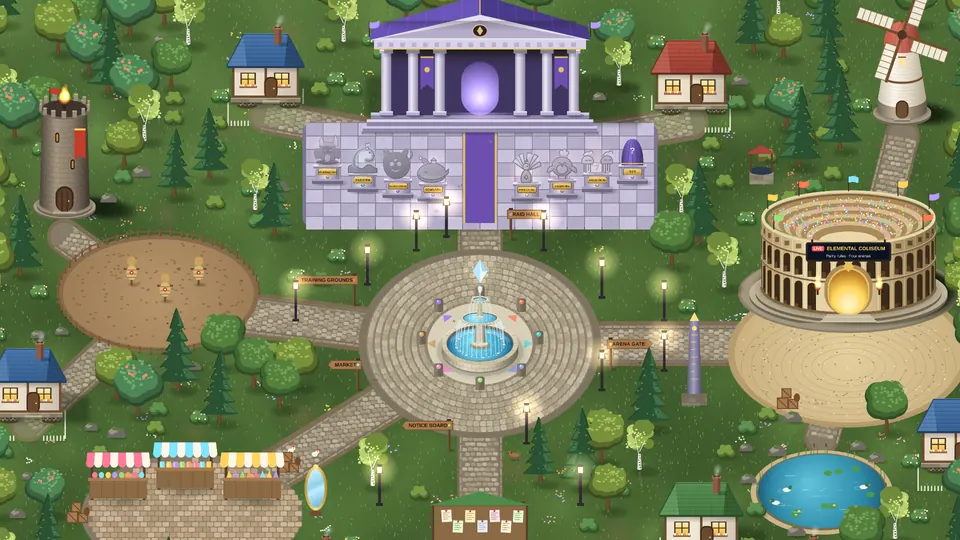
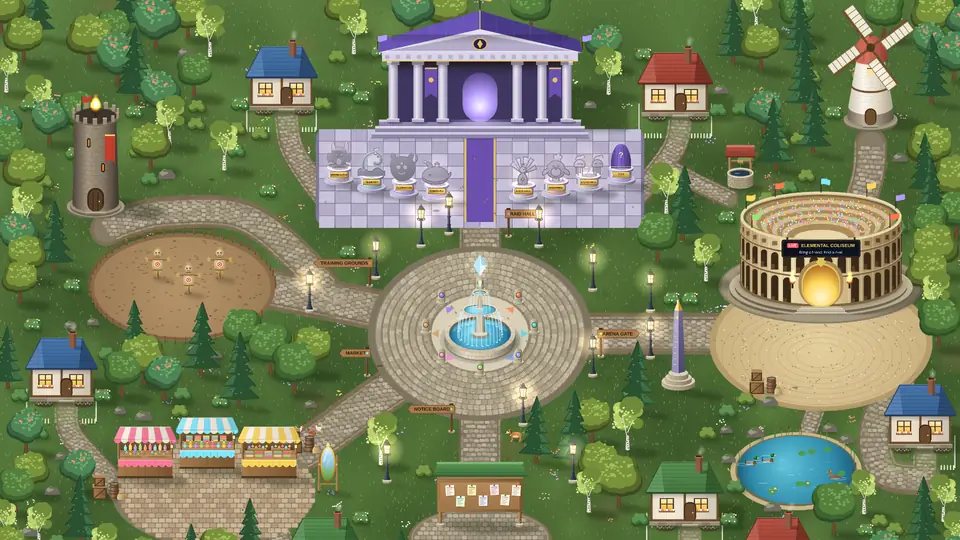
Cleanups: fresh town backdrop, drop the dead battle Leave button, define --body
The dimmed welcome/lobby backdrop is re-rendered from the current town
(curved roads, round bases, props). The hidden #battle-leave button and its
styles were never shown or wired. --body (DM Sans) is now a root token, so
the Wardrobe's var(--body) fonts resolve.

Claude-Session: https://claude.ai/code/session_01NG6FpBkZ47MK7ZMTg7z4Wq

diff --git a/apps/client/src/main.ts b/apps/client/src/main.ts
@@ -223,7 +223,7 @@ const escape = (s: string) =>
       ]!,
   );
 document.querySelector("#app")!.innerHTML =
-  `<header class="topbar"><a class="brand" href="#"><span class="brand-mark" aria-hidden="true"><svg viewBox="0 0 64 64"><defs><linearGradient id="element-crest" x2="0" y2="1"><stop stop-color="#fff1a3"/><stop offset="1" stop-color="#d9a340"/></linearGradient></defs><path fill="url(#element-crest)" fill-rule="evenodd" d="M32 2 42 21 62 32 43 43 32 62 21 43 2 32 21 21Zm0 14L16 32l16 16 16-16Z"/></svg></span> ELEMENT<span>ARENA</span></a><div class="top-links"><div id="account-nav" class="account-nav"></div><button type="button" class="quiet home-settings" id="home-settings" aria-label="Settings" title="Settings">${menuIcon("settings")}</button><details class="header-menu" id="header-menu"><summary><i class="menu-burger" aria-hidden="true">☰</i><i class="menu-gear" aria-hidden="true">${menuIcon("settings")}</i> <span>Menu</span></summary><div class="header-menu-panel"><button class="quiet" id="help">${menuIcon("help")}<span>How to play</span></button><button class="quiet" id="settings">${menuIcon("settings")}<span>Settings</span></button><button class="quiet" id="leaderboard">${menuIcon("leaderboard")}<span>Leaderboard</span></button><button class="quiet" id="install-app">${menuIcon("fullscreen")}<span>Want fullscreen?</span></button><button class="quiet" id="report-problem">${menuIcon("report")}<span>Report a problem</span></button><button class="quiet" id="menu-logout">${menuIcon("leave")}<span>Log out</span></button><span class="connection" id="connection">Connecting</span></div></details></div></header><main><section id="menu"></section><section id="battle" hidden>${stadiumCrowd()}<div id="practice-controls" class="practice-controls" hidden></div><div id="hud" class="hud"></div><div class="arena-stage"><div class="arena-frame"><div id="game"></div><div id="arena-overlay"></div><div id="spectate" class="spectate-banner" role="status" hidden></div><span class="map-label">ELEMENTAL COLISEUM <span>01 / CHAMPIONS COURT</span></span></div></div><div id="mobile-controls"></div><div id="abilities" class="ability-bar"></div><div class="battle-footer"><span id="control-hints"></span><span id="network">AUTHORITATIVE ONLINE MATCH</span><button class="quiet" id="battle-menu" title="Battle settings (Esc / controller Menu)">Settings</button><button class="quiet battle-leave" id="battle-leave" hidden>${iconLabel("leave", "Leave")}</button></div></section></main><footer><span>ELEMENT ARENA <b>•</b> REAL-TIME CREATURE DUELS</span><button class="quiet" id="credits">Credits</button><span>Eight creatures. One arena. Your move.</span></footer><div id="toast" role="status"></div><dialog id="dialog"></dialog>`;
+  `<header class="topbar"><a class="brand" href="#"><span class="brand-mark" aria-hidden="true"><svg viewBox="0 0 64 64"><defs><linearGradient id="element-crest" x2="0" y2="1"><stop stop-color="#fff1a3"/><stop offset="1" stop-color="#d9a340"/></linearGradient></defs><path fill="url(#element-crest)" fill-rule="evenodd" d="M32 2 42 21 62 32 43 43 32 62 21 43 2 32 21 21Zm0 14L16 32l16 16 16-16Z"/></svg></span> ELEMENT<span>ARENA</span></a><div class="top-links"><div id="account-nav" class="account-nav"></div><button type="button" class="quiet home-settings" id="home-settings" aria-label="Settings" title="Settings">${menuIcon("settings")}</button><details class="header-menu" id="header-menu"><summary><i class="menu-burger" aria-hidden="true">☰</i><i class="menu-gear" aria-hidden="true">${menuIcon("settings")}</i> <span>Menu</span></summary><div class="header-menu-panel"><button class="quiet" id="help">${menuIcon("help")}<span>How to play</span></button><button class="quiet" id="settings">${menuIcon("settings")}<span>Settings</span></button><button class="quiet" id="leaderboard">${menuIcon("leaderboard")}<span>Leaderboard</span></button><button class="quiet" id="install-app">${menuIcon("fullscreen")}<span>Want fullscreen?</span></button><button class="quiet" id="report-problem">${menuIcon("report")}<span>Report a problem</span></button><button class="quiet" id="menu-logout">${menuIcon("leave")}<span>Log out</span></button><span class="connection" id="connection">Connecting</span></div></details></div></header><main><section id="menu"></section><section id="battle" hidden>${stadiumCrowd()}<div id="practice-controls" class="practice-controls" hidden></div><div id="hud" class="hud"></div><div class="arena-stage"><div class="arena-frame"><div id="game"></div><div id="arena-overlay"></div><div id="spectate" class="spectate-banner" role="status" hidden></div><span class="map-label">ELEMENTAL COLISEUM <span>01 / CHAMPIONS COURT</span></span></div></div><div id="mobile-controls"></div><div id="abilities" class="ability-bar"></div><div class="battle-footer"><span id="control-hints"></span><span id="network">AUTHORITATIVE ONLINE MATCH</span><button class="quiet" id="battle-menu" title="Battle settings (Esc / controller Menu)">Settings</button></div></section></main><footer><span>ELEMENT ARENA <b>•</b> REAL-TIME CREATURE DUELS</span><button class="quiet" id="credits">Credits</button><span>Eight creatures. One arena. Your move.</span></footer><div id="toast" role="status"></div><dialog id="dialog"></dialog>`;
 // Measure wrapped HUDs for phone spacing and desktop boss-specific controls.
 let measuredRaidHud: HTMLElement | null = null;
 const battleHudSize = new ResizeObserver((entries) => {

diff --git a/apps/client/src/style.css b/apps/client/src/style.css
@@ -13459,6 +13459,7 @@ dialog.mission-instructions::backdrop {
   --panel-bottom: #0e1a31;
   --panel-line: #8baee52b;
   --display: "Barlow Condensed", Impact, sans-serif;
+  --body: "DM Sans", sans-serif;
   --scroll-track: #081427;
   --scroll-thumb: #b99858;
   --scroll-thumb-light: #e3c47e;
@@ -21138,15 +21139,9 @@ body.town-active .header-menu-panel #friends {
   stroke: #2a1a00;
   stroke-width: 2.4;
 }
-/* Solo test mode: no site menu; Settings and Leave sit side by side. */
+/* Solo test mode: no site menu. */
 body.practice-active .header-menu {
   display: none;
-}
-.battle-leave {
-  color: #ff8a8a;
-}
-.battle-leave:hover {
-  color: #ffb0b0;
 }
 
 /* ── Welcome screen ──

diff --git a/apps/client/src/wardrobe.css b/apps/client/src/wardrobe.css
@@ -343,8 +343,8 @@ dialog.wardrobe-dialog > .dialog-content {
   gap: 4px;
   box-sizing: border-box;
   white-space: nowrap;
-  /* Same size as the line above it (named directly: --body isn't set here). */
-  font-family: "DM Sans", sans-serif;
+  /* Same size as the line above it. */
+  font-family: var(--body);
   font-weight: 600;
   line-height: 1.3;
   color: var(--accent);
